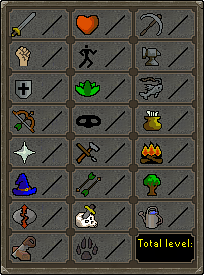
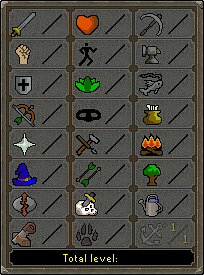
Add preliminary support for sailing

diff --git a/src/runescape_utils.py b/src/runescape_utils.py
@@ -262,7 +262,8 @@ skills_07: list[str] = [
     'Farming', 
     'Runecraft', 
     'Hunter', 
-    'Construction'
+    'Construction'#,
+    #'Sailing'
 ]
 
 osrs_skill_emojis: list[str] = [
@@ -289,7 +290,8 @@ osrs_skill_emojis: list[str] = [
     '<:Runecraft_icon:624387169041121290>', 
     '<:Hunter_icon:624387169070350336>', 
     '<:Construction_icon:624387168995115041>', 
-    '<:Stats_icon:624389156344430594>'
+    '<:Stats_icon:624389156344430594>',
+    '<:Sailing_icon:1437589669272490156>'
 ]
 
 skills_rs3: list[str] = [
@@ -356,7 +358,7 @@ rs3_skill_emojis: list[str] = [
     '<:Archaeology:962315037509316628>'
 ]
 
-skill_indices: list[int] = [0, 3, 14, 2, 16, 13, 1, 15, 10, 4, 17, 7, 5, 12, 11, 6, 9, 8, 20, 18, 19, 22, 21]
+skill_indices: list[int] = [0, 3, 14, 2, 16, 13, 1, 15, 10, 4, 17, 7, 5, 12, 11, 6, 9, 8, 20, 18, 19, 22, 21]#,23
 skill_indices_rs3: list[int] = [0, 3, 14, 2, 16, 13, 1, 15, 10, 4, 17, 7, 5, 12, 11, 6, 9, 8, 20, 18, 19, 22, 21, 23, 24, 25, 26, 27, 28]
 
 cb_indices_rs3: list[int] = [0, 2, 1, 3, 6, 4, 5, 23]

diff --git a/cogs/runescape.py b/cogs/runescape.py
@@ -672,20 +672,20 @@ class Runescape(Cog):
 
         stats_interface: Array = copy.deepcopy(self.stats_interface_osrs)
             
-        draw_num(stats_interface, levels[0], 175, 257, yellow, True)
+        draw_num(stats_interface, levels[0], 144, 262, yellow, True)
 
         for i, index in enumerate(skill_indices):
             level: int = levels[1:][index]
             if index == 3:
                 level = max(int(level), 10)
 
-            x: int = 52 + 63 * (i % 3)
-            y: int = 21 + 32 * (i // 3)
+            x: int = 53 + 63 * (i % 3)
+            y: int = 21 + 30 * (i // 3)
 
             draw_num(stats_interface, level, x, y, yellow, True)
 
-            x += 13
-            y += 13
+            x += 12
+            y += 12
 
             draw_num(stats_interface, level, x, y, yellow, True)
 

diff --git a/src/wise_old_man.py b/src/wise_old_man.py
@@ -28,7 +28,8 @@ wom_skills: list[str] = [
     'farming',
     'runecrafting',
     'hunter',
-    'construction'
+    'construction'#,
+    #'sailing'
 ]
 
 wom_bosses: list[str] = [
